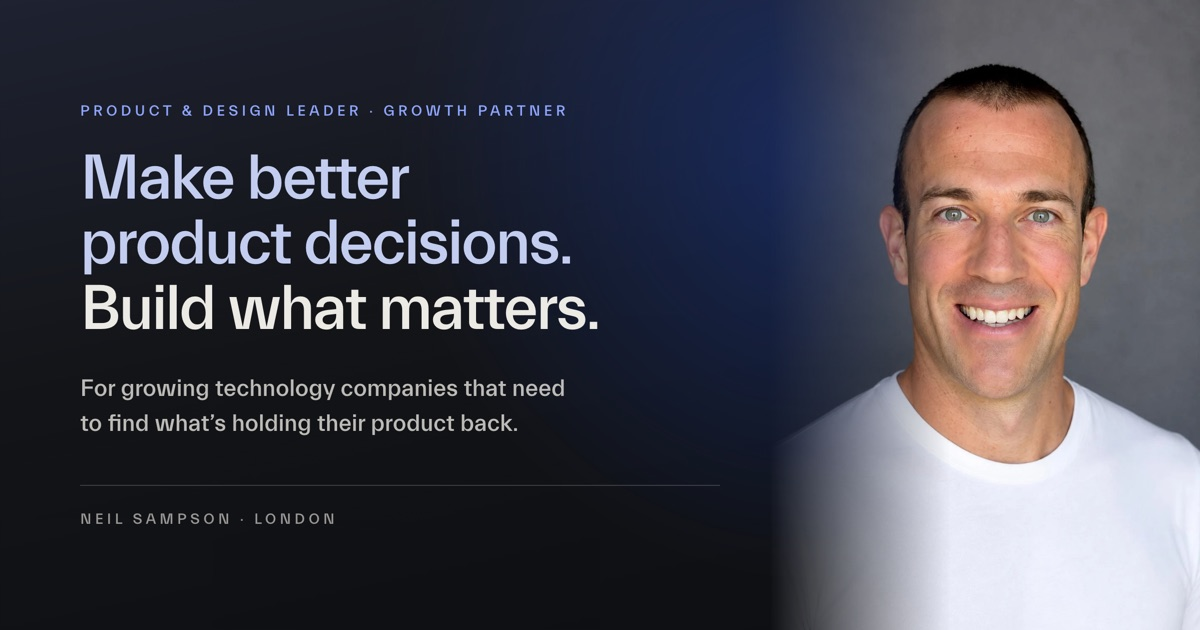
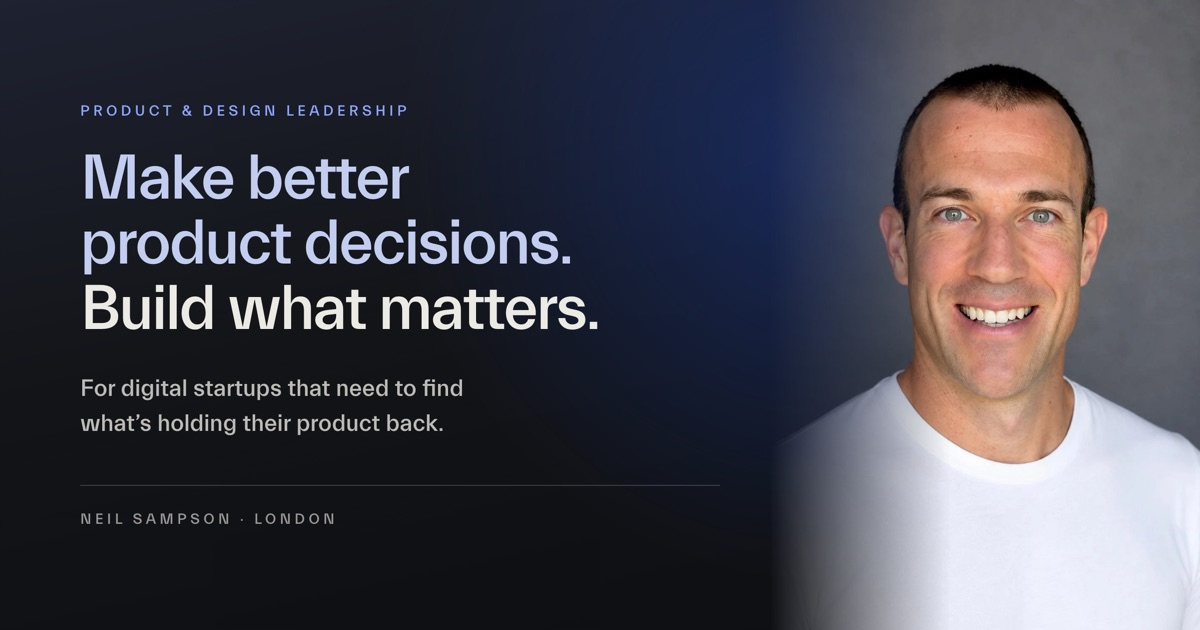
Speak to digital startups across the title, descriptions and share card
Match the new hero subtitle: the page title, meta, social and structured-data
descriptions, image alt text, colophon and share card now say digital
startups, and the card's eyebrow matches the hero's.

Changed region(s): [[0.0617, 0.6032, 0.4933, 0.6937], [0.3083, 0.1508, 0.4625, 0.181]]

diff --git a/index.html b/index.html
@@ -12,23 +12,23 @@
   gtag('config', 'G-JVE686CDKP');
 </script>
 <meta name="viewport" content="width=device-width, initial-scale=1">
-<title>Product &amp; design leader for growing technology companies | Neil Sampson</title>
-<meta name="description" content="Product and design leadership for growing technology companies. Find what&#8217;s holding your product back, decide what matters most and turn it into growth.">
+<title>Product &amp; design leader for digital startups | Neil Sampson</title>
+<meta name="description" content="Product and design leadership for digital startups. Find what&#8217;s holding your product back, decide what matters most and turn it into growth.">
 <link rel="canonical" href="https://neil-sampson.com/">
 
 <meta property="og:type" content="website">
 <meta property="og:site_name" content="Neil Sampson">
 <meta property="og:locale" content="en_GB">
-<meta property="og:title" content="Product &amp; design leader for growing technology companies | Neil Sampson">
-<meta property="og:description" content="Product and design leadership for growing technology companies. Find what&#8217;s holding your product back, decide what matters most and turn it into growth.">
+<meta property="og:title" content="Product &amp; design leader for digital startups | Neil Sampson">
+<meta property="og:description" content="Product and design leadership for digital startups. Find what&#8217;s holding your product back, decide what matters most and turn it into growth.">
 <meta property="og:url" content="https://neil-sampson.com/">
 <meta name="twitter:card" content="summary_large_image">
-<meta name="twitter:title" content="Product &amp; design leader for growing technology companies | Neil Sampson">
-<meta name="twitter:description" content="Product and design leadership for growing technology companies. Find what&#8217;s holding your product back, decide what matters most and turn it into growth.">
+<meta name="twitter:title" content="Product &amp; design leader for digital startups | Neil Sampson">
+<meta name="twitter:description" content="Product and design leadership for digital startups. Find what&#8217;s holding your product back, decide what matters most and turn it into growth.">
 <meta property="og:image" content="https://neil-sampson.com/assets/share-card-decisions.jpg">
 <meta property="og:image:width" content="1200">
 <meta property="og:image:height" content="630">
-<meta property="og:image:alt" content="Neil Sampson, product and design leadership for growing technology companies: make better product decisions, build what matters">
+<meta property="og:image:alt" content="Neil Sampson, product and design leadership for digital startups: make better product decisions, build what matters">
 <meta name="twitter:image" content="https://neil-sampson.com/assets/share-card-decisions.jpg">
 
 <script type="application/ld+json">
@@ -36,7 +36,7 @@
   "@context": "https://schema.org",
   "@type": "ProfessionalService",
   "name": "Neil Sampson",
-  "description": "Product and design leadership for growing technology companies. Find what’s holding your product back, decide what matters most and turn it into growth.",
+  "description": "Product and design leadership for digital startups. Find what’s holding your product back, decide what matters most and turn it into growth.",
   "url": "https://neil-sampson.com/",
   "areaServed": "GB",
   "provider": {
@@ -400,7 +400,7 @@
 
       <div class="colophon">
         <span>Neil Sampson</span>
-        <span>Product &amp; design leadership for growing technology companies</span>
+        <span>Product &amp; design leadership for digital startups</span>
       </div>
     </div>
   </section>

diff --git a/why-neil.html b/why-neil.html
@@ -28,7 +28,7 @@
 <meta property="og:image" content="https://neil-sampson.com/assets/share-card-decisions.jpg">
 <meta property="og:image:width" content="1200">
 <meta property="og:image:height" content="630">
-<meta property="og:image:alt" content="Neil Sampson, product and design leadership for growing technology companies: make better product decisions, build what matters">
+<meta property="og:image:alt" content="Neil Sampson, product and design leadership for digital startups: make better product decisions, build what matters">
 <meta name="twitter:image" content="https://neil-sampson.com/assets/share-card-decisions.jpg">
 
 
@@ -203,7 +203,7 @@
 
       <div class="colophon">
         <span>Neil Sampson</span>
-        <span>Product &amp; design leadership for growing technology companies</span>
+        <span>Product &amp; design leadership for digital startups</span>
       </div>
     </div>
   </section>

diff --git a/case-bpp.html b/case-bpp.html
@@ -28,7 +28,7 @@
 <meta property="og:image" content="https://neil-sampson.com/assets/share-card-decisions.jpg">
 <meta property="og:image:width" content="1200">
 <meta property="og:image:height" content="630">
-<meta property="og:image:alt" content="Neil Sampson, product and design leadership for growing technology companies: make better product decisions, build what matters">
+<meta property="og:image:alt" content="Neil Sampson, product and design leadership for digital startups: make better product decisions, build what matters">
 <meta name="twitter:image" content="https://neil-sampson.com/assets/share-card-decisions.jpg">
 
 <link rel="icon" type="image/png" sizes="32x32" href="assets/favicon-32.png">

diff --git a/case-fca.html b/case-fca.html
@@ -28,7 +28,7 @@
 <meta property="og:image" content="https://neil-sampson.com/assets/share-card-decisions.jpg">
 <meta property="og:image:width" content="1200">
 <meta property="og:image:height" content="630">
-<meta property="og:image:alt" content="Neil Sampson, product and design leadership for growing technology companies: make better product decisions, build what matters">
+<meta property="og:image:alt" content="Neil Sampson, product and design leadership for digital startups: make better product decisions, build what matters">
 <meta name="twitter:image" content="https://neil-sampson.com/assets/share-card-decisions.jpg">
 
 <link rel="icon" type="image/png" sizes="32x32" href="assets/favicon-32.png">

diff --git a/case-lindblad.html b/case-lindblad.html
@@ -28,7 +28,7 @@
 <meta property="og:image" content="https://neil-sampson.com/assets/share-card-decisions.jpg">
 <meta property="og:image:width" content="1200">
 <meta property="og:image:height" content="630">
-<meta property="og:image:alt" content="Neil Sampson, product and design leadership for growing technology companies: make better product decisions, build what matters">
+<meta property="og:image:alt" content="Neil Sampson, product and design leadership for digital startups: make better product decisions, build what matters">
 <meta name="twitter:image" content="https://neil-sampson.com/assets/share-card-decisions.jpg">
 
 <link rel="icon" type="image/png" sizes="32x32" href="assets/favicon-32.png">

diff --git a/case-polesdon.html b/case-polesdon.html
@@ -28,7 +28,7 @@
 <meta property="og:image" content="https://neil-sampson.com/assets/share-card-decisions.jpg">
 <meta property="og:image:width" content="1200">
 <meta property="og:image:height" content="630">
-<meta property="og:image:alt" content="Neil Sampson, product and design leadership for growing technology companies: make better product decisions, build what matters">
+<meta property="og:image:alt" content="Neil Sampson, product and design leadership for digital startups: make better product decisions, build what matters">
 <meta name="twitter:image" content="https://neil-sampson.com/assets/share-card-decisions.jpg">
 
 <link rel="icon" type="image/png" sizes="32x32" href="assets/favicon-32.png">

diff --git a/services.html b/services.html
@@ -28,7 +28,7 @@
 <meta property="og:image" content="https://neil-sampson.com/assets/share-card-decisions.jpg">
 <meta property="og:image:width" content="1200">
 <meta property="og:image:height" content="630">
-<meta property="og:image:alt" content="Neil Sampson, product and design leadership for growing technology companies: make better product decisions, build what matters">
+<meta property="og:image:alt" content="Neil Sampson, product and design leadership for digital startups: make better product decisions, build what matters">
 <meta name="twitter:image" content="https://neil-sampson.com/assets/share-card-decisions.jpg">
 
 <link rel="icon" type="image/png" sizes="32x32" href="assets/favicon-32.png">

diff --git a/tools/share-card.html b/tools/share-card.html
@@ -156,9 +156,9 @@
 </div>
 
 <div class="inner">
-  <span class="eyebrow">Product &amp; design leader &#183; Growth partner</span>
+  <span class="eyebrow">Product &amp; design leadership</span>
   <h1><em>Make better<br>product decisions.</em><br>Build what matters.</h1>
-  <p class="lead">For growing technology companies that need to find what&#8217;s holding their product back.</p>
+  <p class="lead">For digital startups that need to find what&#8217;s holding their product back.</p>
   <div class="rule"></div>
   <div class="colophon">Neil Sampson &#183; London</div>
 </div>
